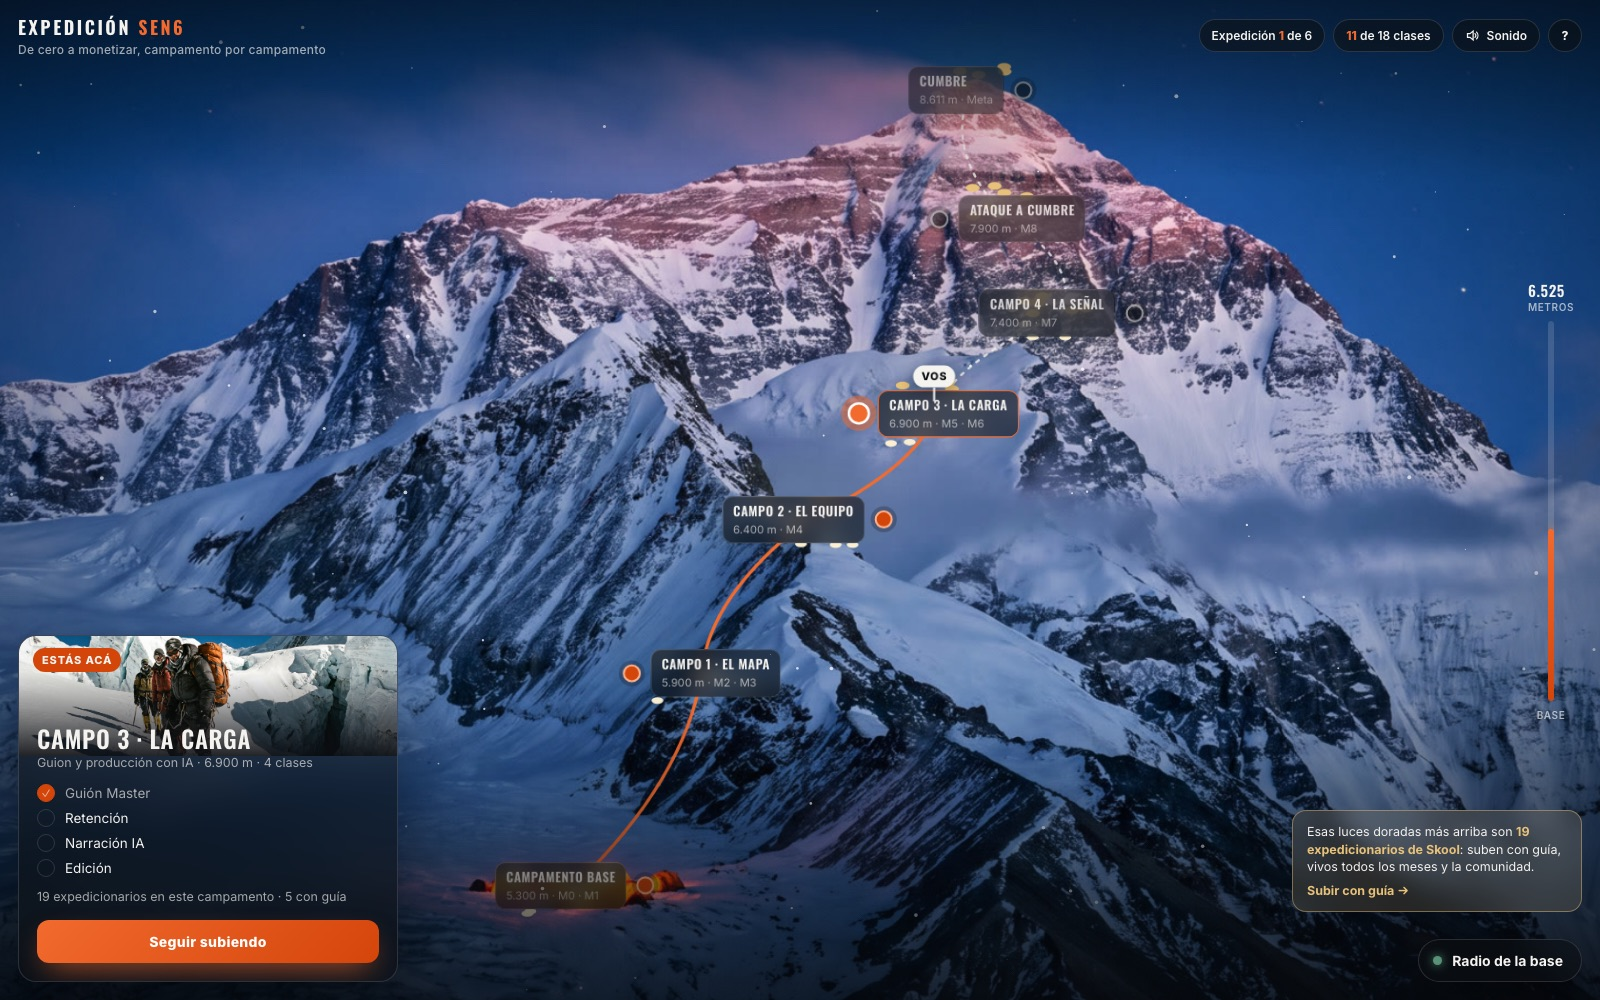
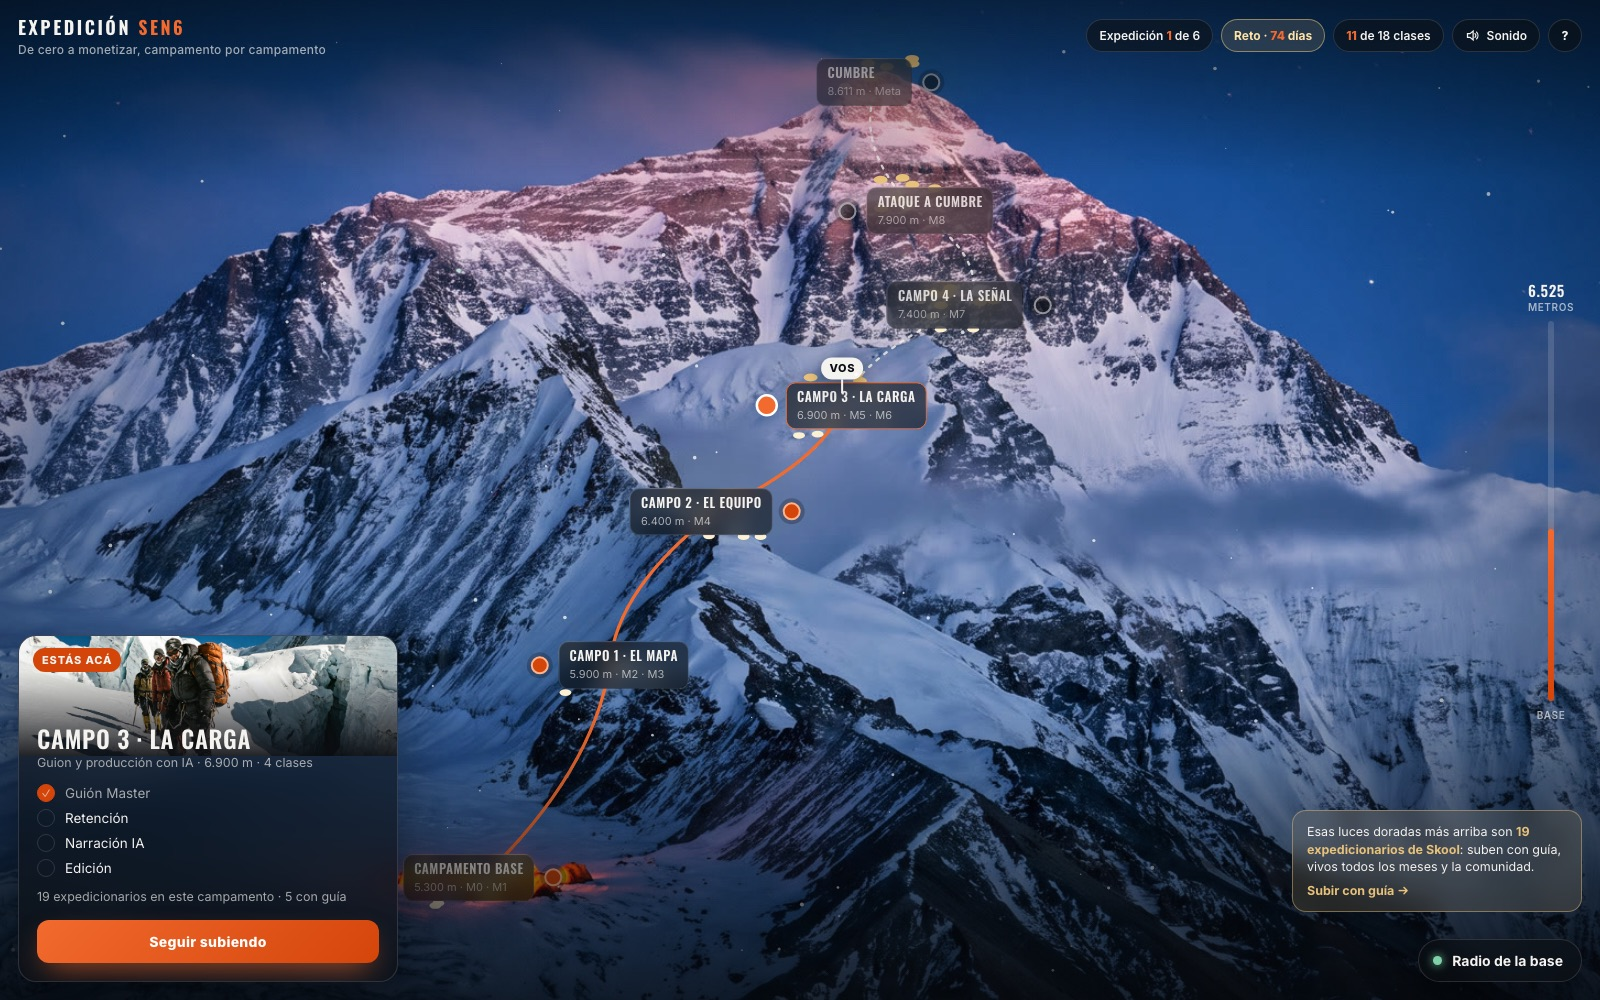
Expedición SEN6: el reto es monetizar en 3 meses (landing, app con contador de días)

diff --git a/expedicion/entrar/index.html b/expedicion/entrar/index.html
@@ -230,6 +230,8 @@ button{font:inherit;color:inherit}
 .estado-cumbre.rechazado{background:rgba(242,106,46,.14)}
 
 /* ---------- recorrido guiado ---------- */
+.chip-reto{border-color:rgba(232,194,122,.55);background:rgba(232,194,122,.14);color:#FFE3A6;cursor:pointer;font-weight:700}
+.chip-reto[hidden]{display:none}
 .chip.ayuda{cursor:pointer;width:34px;padding:8px 0;text-align:center;font-weight:800}
 #tour{position:fixed;inset:0;z-index:80;display:none}
 #tour.activo{display:block}
@@ -266,6 +268,7 @@ button{font:inherit;color:inherit}
   <div class="marca">Expedición <em>SEN6</em><small>De cero a monetizar, campamento por campamento</small></div>
   <div class="chips">
     <div class="chip" id="chipExp" title="Regla del 6M: el año tiene 6 expediciones de 2 meses. Si esta no hace cumbre, volvés al campamento base con lo aprendido.">Expedición <b>1</b> de 6</div>
+    <button class="chip extra chip-reto" id="chipReto" type="button" hidden title="El reto: monetizá en 3 meses y ganás Silver Pro para siempre"></button>
     <div class="chip extra" id="chipProgreso"></div>
     <button class="chip sonido" id="sonido" type="button" aria-pressed="true"></button>
     <button class="chip ayuda" id="ayuda" type="button" aria-label="Ver el recorrido guiado" title="Ver el recorrido guiado">?</button>
@@ -286,7 +289,7 @@ button{font:inherit;color:inherit}
   <div>
     <div class="kick">De cero a monetizar</div>
     <h1>Expedición <em>SEN6</em></h1>
-    <p>Monetizar un canal es hacer cumbre. Seis campamentos, dieciocho clases y una radio en la base que te responde cuando te trabás. Y arriba te espera el premio del reto: si tu canal monetiza, entrás a SEN6 Silver Pro para siempre.</p>
+    <p>Monetizar un canal es hacer cumbre. Seis campamentos, dieciocho clases y una radio en la base que te responde cuando te trabás. Y el reto: si tu canal monetiza en los primeros 3 meses, entrás a SEN6 Silver Pro para siempre.</p>
     <form id="acceso" novalidate>
       <input id="accEmail" type="email" placeholder="El email con el que compraste" autocomplete="username" aria-label="Tu email de compra">
       <div class="acc-paso" id="accPaso" hidden></div>
@@ -378,12 +381,12 @@ function api(metodo, ruta, datos){
     .then(function(r){ return r.json().catch(function(){ return {}; }).then(function(j){ j.status = r.status; return j; }); });
 }
 /* canal registrado y pedido de cumbre (los guarda la oficina; la cumbre la aprueba la revisión con NexLev) */
-var FICHA = { canal:null, cumbre:null };
-if (DEMO) FICHA = { canal:{ url:'https://www.youtube.com/@ejemplo' }, cumbre:null };
+var FICHA = { canal:null, cumbre:null, retoHasta:null };
+if (DEMO) FICHA = { canal:{ url:'https://www.youtube.com/@ejemplo' }, cumbre:null, retoHasta: new Date(Date.now() + 74 * 864e5).toISOString() };
 function tomarFicha(r){
   if (!r || !('canal' in r)) return;
   var antes = FICHA.cumbre && FICHA.cumbre.estado;
-  FICHA = { canal:r.canal, cumbre:r.cumbre };
+  FICHA = { canal:r.canal, cumbre:r.cumbre, retoHasta:r.retoHasta || null };
   if (FICHA.cumbre && FICHA.cumbre.estado === 'aprobado'){
     PROG.campo = CAMPOS.length - 1; ponerLS(CLAVE, JSON.stringify(PROG));
     if (antes !== 'aprobado' && leerLS('expedicion_sen6_cumbre_' + leerLS(CLAVE_EMAIL)) !== '1'){ ponerLS('expedicion_sen6_cumbre_' + leerLS(CLAVE_EMAIL), '1'); setTimeout(festejoCumbre, 900); }
@@ -479,7 +482,7 @@ function panel(){
   var gente = GENTE[sel] + ' expedicionarios en este campamento' + (SILVER[sel] ? ' · ' + SILVER[sel] + ' con guía' : '');
   if (c.meta){
     lis = ''; var ec = FICHA.cumbre && FICHA.cumbre.estado, hecha = ec === 'aprobado' || e === 'actual' && DEMO && PROG.cumbre;
-    gente = hecha ? 'Hiciste cumbre. Tu canal está monetizado y ganaste el premio: SEN6 Silver Pro para siempre. Te llega la invitación a Skool a tu email.' : '<b style="color:var(--oro)">El premio del reto: SEN6 Silver Pro para siempre (valor US$500).</b> Acá llegás cuando tu canal está monetizado: al terminar el Ataque a cumbre mandás el link y lo revisamos con NexLev.';
+    gente = hecha ? (FICHA.cumbre && FICHA.cumbre.conPremio === false ? 'Hiciste cumbre. Tu canal está monetizado.' : 'Hiciste cumbre. Tu canal está monetizado y ganaste el premio: SEN6 Silver Pro para siempre. Te llega la invitación a Skool a tu email.') : '<span style="color:var(--oro)">' + textoReto() + '</span><br>Acá llegás cuando tu canal está monetizado: al terminar el Ataque a cumbre mandás el link y lo revisamos con NexLev.';
     if (!hecha && ec) gente += '<div class="estado-cumbre ' + ec + '">' + textoCumbre(ec) + '</div>';
     var listo = PROG.campo >= CAMPOS.length - 2 && lecsDe(CAMPOS[CAMPOS.length - 2]).every(function(l){ return PROG.vistas[l.id]; });
     var btnM = hecha ? '<button class="cta" type="button">Volver a escuchar la cumbre</button>'
@@ -505,6 +508,8 @@ function hud(){
   var hechas = 0;
   CAMPOS.forEach(function(c, i){ hechas += i < YO.campo ? c.clases.length : i === YO.campo ? hechasDe(c) : 0; });
   document.getElementById('chipProgreso').innerHTML = '<b>' + hechas + '</b> de ' + TOTAL_CLASES + ' clases';
+  var dr = diasReto(), cr = document.getElementById('chipReto'), apro = FICHA.cumbre && FICHA.cumbre.estado === 'aprobado';
+  cr.hidden = dr === null || dr <= 0 || apro; if (!cr.hidden) cr.innerHTML = 'Reto · <b>' + dr + '</b> ' + (dr === 1 ? 'día' : 'días');
   var c = CAMPOS[YO.campo], prev = YO.campo ? CAMPOS[YO.campo - 1].alt : 4800;
   var alt = c.meta ? c.alt : Math.round(prev + (c.alt - prev) * (hechasDe(c) / c.clases.length));
   document.getElementById('altNum').innerHTML = alt.toLocaleString('es-AR') + '<small>METROS</small>';
@@ -725,9 +730,17 @@ function festejoCumbre(){
   fx('impacto', .6); fx('rafaga', .8);
   $('festejo').querySelector('.kick').textContent = '8.611 metros';
   $('festejoTit').textContent = '¡Cumbre!';
-  $('festejoSub').textContent = 'Revisamos tu canal con NexLev: está monetizado. Ganaste el premio del reto: SEN6 Silver Pro para siempre. Te llega la invitación a Skool a tu email.';
+  $('festejoSub').textContent = 'Revisamos tu canal con NexLev: está monetizado.' + (FICHA.cumbre && FICHA.cumbre.conPremio === false ? ' Hiciste cumbre.' : ' Ganaste el premio del reto: SEN6 Silver Pro para siempre. Te llega la invitación a Skool a tu email.');
   $('festejoBtn').textContent = 'Ver la cumbre';
   $('festejo').classList.add('abierto');
+}
+/* días que le quedan del reto (3 meses desde que entró) */
+function diasReto(){ if (!FICHA.retoHasta) return null; return Math.ceil((Date.parse(FICHA.retoHasta) - Date.now()) / 864e5); }
+function textoReto(){
+  var d = diasReto();
+  if (d === null) return 'El reto: si tu canal monetiza en los primeros 3 meses, entrás a SEN6 Silver Pro para siempre (valor US$500).';
+  return d > 0 ? 'El reto: te quedan <b>' + d + (d === 1 ? ' día' : ' días') + '</b> para monetizar y ganar SEN6 Silver Pro para siempre (valor US$500).'
+               : 'El plazo del reto (3 meses) ya pasó, pero la cumbre sigue esperándote.';
 }
 function textoCumbre(ec){
   return ec === 'revision' ? '<b>En revisión.</b> Revisamos tu canal con NexLev cada hora. Cuando esté aprobado, la cumbre se abre sola la próxima vez que entres.'
@@ -748,7 +761,7 @@ $('cartelCerrar').onclick = cerrarCartel;
 function cartelCanal(fin){
   fx('radio', .4);
   abrirCartel({ modo:'canal', fin:fin, pide:true, kick:'Antes de seguir subiendo', tit:'Registrá tu canal',
-    txt:'Pegá el link del canal que acabás de abrir. Es el que vas a llevar hasta la cumbre: al final lo revisamos con NexLev para confirmar que está monetizado y darte el premio (Silver Pro para siempre), así que tiene que ser este mismo.',
+    txt:'Pegá el link del canal que acabás de abrir. Es el que vas a llevar hasta la cumbre: al final lo revisamos con NexLev para confirmar que está monetizado y, si lo lográs en los primeros 3 meses, darte el premio (Silver Pro para siempre). Tiene que ser este mismo.',
     valor: FICHA.canal ? FICHA.canal.url : '', ok:'Registrar mi canal' });
 }
 function cartelCumbre(){
@@ -757,7 +770,7 @@ function cartelCumbre(){
   if (ec === 'revision' || ec === 'distinto'){ abrirCartel({ modo:'info', kick:'Cumbre', tit:'Tu canal está en revisión', txt:textoCumbre(ec), ok:'Entendido', cerrar:'Cerrar' }); return; }
   fx('radio', .4);
   abrirCartel({ modo:'cumbre', pide:true, kick:'Último paso · 8.611 m', tit:'¿Tu canal ya está monetizado?',
-    txt:'Pegá el link de tu canal monetizado. Lo revisamos con NexLev y comprobamos que sea el mismo que registraste al abrirlo: <b>' + esc(FICHA.canal.titulo || FICHA.canal.url.replace('https://www.youtube.com/', '')) + '</b>. Si está todo bien, hacés cumbre y ganás el premio del reto: <b>SEN6 Silver Pro para siempre</b>.',
+    txt:'Pegá el link de tu canal monetizado. Lo revisamos con NexLev y comprobamos que sea el mismo que registraste al abrirlo: <b>' + esc(FICHA.canal.titulo || FICHA.canal.url.replace('https://www.youtube.com/', '')) + '</b>. Si está todo bien, hacés cumbre' + (diasReto() === null || diasReto() > 0 ? ' y ganás el premio del reto: <b>SEN6 Silver Pro para siempre</b>' : '') + '.',
     ok:'Mandar a revisión' });
 }
 $('cartelForm').onsubmit = function(ev){
@@ -843,7 +856,7 @@ var TOURS = {
     { el:'#radio', tit:'Radio de la base', txt:'Si te trabás, prendé la radio y escribí tu duda. Te responde con lo que ya contestaron Max y Lau a cientos de alumnos.' },
     { el:'#guia', tit:'Las luces doradas', txt:'Son los alumnos de la comunidad de Skool: suben con guía, vivos todos los meses y la comunidad. Si querés acompañamiento, desde acá te sumás.' },
     { el:'#sonido', tit:'Sonido', txt:'La expedición tiene música, ambiente y narración. Si estás en un lugar sin auriculares, la apagás acá.' },
-    { el:'#ayuda', tit:'Listo, a subir', txt:'Acordate del reto: si tu canal monetiza, entrás a SEN6 Silver Pro para siempre. Si querés ver este recorrido de nuevo, tocá este botón. Ahora entrá a tu primer campamento.' }
+    { el:'#ayuda', tit:'Listo, a subir', txt:'Acordate del reto: si tu canal monetiza en los primeros 3 meses, entrás a SEN6 Silver Pro para siempre. Si querés ver este recorrido de nuevo, tocá este botón. Ahora entrá a tu primer campamento.' }
   ],
   campamento: [
     { el:'#lecs', tit:'Las clases del campamento', txt:'Miralas en orden. Cada una dura pocos minutos y va directo a lo que tenés que hacer.' },
@@ -899,6 +912,7 @@ $('tourAtras').onclick = function(){ if (tour.i){ tour.i--; pintarPaso(); } };
 $('tourSaltar').onclick = cerrarTour;
 addEventListener('keydown', function(e){ if (!tour) return; if (e.key === 'Escape') cerrarTour(); if (e.key === 'ArrowRight' || e.key === 'Enter') $('tourSig').click(); if (e.key === 'ArrowLeft') $('tourAtras').click(); });
 addEventListener('resize', function(){ if (tour) pintarPaso(); });
+document.getElementById('chipReto').onclick = function(){ sel = CAMPOS.length - 1; dibujar(); panel(); encuadrar(); };
 $('ayuda').onclick = function(){ if (abierto >= 0) arrancarTour('campamento'); else arrancarTour('mapa'); };
 
 addEventListener('resize', encuadrar);

diff --git a/expedicion/index.html b/expedicion/index.html
@@ -366,7 +366,7 @@ footer a{margin:0 10px;color:var(--dim)}
     <div class="eb rv on">Para los que ya nos siguen</div>
     <h1 class="rv on d1" style="margin-top:16px">La ruta completa.<br><em>US$27.</em> Para siempre.</h1>
     <p class="lead rv on d2">Ya conocés SEN6. Si hoy no podés pagar una mensualidad, esto es para vos: las 18 clases fundamentales, en un camino directo y simple para que llegues a tu canal monetizado. Con la radio de la base para cuando te trabás. Pagás una vez y es tuya.</p>
-    <a class="badge-reto rv on d2" href="#reto"><i>EL RETO</i>Si monetizás, ganás <b>Silver Pro para siempre</b> · US$500</a>
+    <a class="badge-reto rv on d2" href="#reto"><i>EL RETO</i>Monetizá en 3 meses y ganás <b>Silver Pro para siempre</b> · US$500</a>
     <div class="acciones rv on d3">
       <a class="cta pagar" href="#precio">Quiero mi expedición <small>US$27</small></a>
       <div class="cta-nota">
@@ -395,16 +395,16 @@ footer a{margin:0 10px;color:var(--dim)}
   <div class="fondo"></div>
   <div class="wrap reto-g">
     <div>
-      <div class="eb rv">El reto · 8.611 m</div>
-      <h2 class="rv d1" style="margin-top:14px">Monetizá tu canal.<br><em>Ganate Silver Pro para siempre.</em></h2>
-      <p class="lead rv d2" style="margin-top:18px">La Expedición es un reto. El que hace cumbre, con su canal monetizado de verdad, entra por invitación a SEN6 Silver Pro en Skool. De por vida.</p>
+      <div class="eb rv">El reto · 3 meses</div>
+      <h2 class="rv d1" style="margin-top:14px">Monetizá en 3 meses.<br><em>Ganate Silver Pro para siempre.</em></h2>
+      <p class="lead rv d2" style="margin-top:18px">La Expedición es un reto. Tenés 3 meses desde que entrás: si en ese plazo hacés cumbre, con tu canal monetizado de verdad, entrás por invitación a SEN6 Silver Pro en Skool. De por vida.</p>
       <div class="pasos">
         <div class="paso rv"><div><b>Registrás tu canal</b><span>Cuando lo abrís, en el Campo 2, queda guardado como el canal de tu expedición.</span></div></div>
-        <div class="paso rv d1"><div><b>Lo llevás hasta la monetización</b><span>Campamento por campamento, con las 18 clases y la radio de la base.</span></div></div>
-        <div class="paso rv d2"><div><b>Lo verificamos con NexLev y te invitamos</b><span>Si es el mismo canal y está monetizado, hiciste cumbre: entrás a Silver Pro para siempre.</span></div></div>
+        <div class="paso rv d1"><div><b>Lo llevás a monetizar en 3 meses</b><span>Campamento por campamento, con las 18 clases y la radio de la base. En la app ves cuántos días te quedan.</span></div></div>
+        <div class="paso rv d2"><div><b>Lo verificamos con NexLev y te invitamos</b><span>Si es el mismo canal y está monetizado dentro del plazo, hiciste cumbre: entrás a Silver Pro para siempre.</span></div></div>
       </div>
     </div>
-    <div class="premio rv d1"><div><div class="k">El premio</div><b>US$500</b><span>Silver Pro</span><small>para siempre, por invitación</small></div></div>
+    <div class="premio rv d1"><div><div class="k">El premio</div><b>US$500</b><span>Silver Pro</span><small>para siempre · si monetizás en 3 meses</small></div></div>
   </div>
 </section>
 
@@ -452,14 +452,14 @@ footer a{margin:0 10px;color:var(--dim)}
         <li>La radio de la base: 383 respuestas de Max y Lau</li>
         <li>Videos de refuerzo de Max para cada etapa</li>
         <li>Tu progreso guardado en cualquier dispositivo</li>
-        <li><b style="color:#FFE3A6">El reto:</b> si tu canal monetiza, entrás a Silver Pro para siempre (valor US$500)</li>
+        <li><b style="color:#FFE3A6">El reto:</b> si tu canal monetiza en 3 meses, entrás a Silver Pro para siempre (valor US$500)</li>
       </ul>
       <a class="cta pagar" id="pagar" href="#" rel="noopener">Quiero mi expedición <small>US$27</small></a>
       <div class="pago-seguro"><svg viewBox="0 0 24 24" fill="none" stroke="currentColor" stroke-width="2" stroke-linecap="round"><rect x="4" y="10" width="16" height="10" rx="2"/><path d="M8 10V7a4 4 0 0 1 8 0v3"/></svg>Pago seguro con <b style="color:var(--cream)">Stripe</b> · tarjeta de crédito o débito</div>
     </div>
     <div class="faq" style="margin-top:44px">
       <details class="rv"><summary>¿Es para siempre de verdad?</summary><p>Sí. Pagás US$27 una sola vez, sin mensualidad, y la expedición queda tuya.</p></details>
-      <details class="rv"><summary>¿Cómo funciona el reto?</summary><p>Registrás tu canal cuando lo abrís (Campo 2) y, cuando monetiza, mandás el link desde la cumbre. Lo revisamos con NexLev: si es el mismo canal y está monetizado, te invitamos a SEN6 Silver Pro en Skool, para siempre.</p></details>
+      <details class="rv"><summary>¿Cómo funciona el reto?</summary><p>Tenés 3 meses desde que entrás. Registrás tu canal cuando lo abrís (Campo 2) y, cuando monetiza, mandás el link desde la cumbre. Lo revisamos con NexLev: si es el mismo canal, está monetizado y lo pediste dentro de los 3 meses, te invitamos a SEN6 Silver Pro en Skool, para siempre. Después del plazo podés hacer cumbre igual, pero sin el premio.</p></details>
       <details class="rv"><summary>¿Cómo entro después de pagar?</summary><p>Apenas pagás te lleva directo a la expedición. Entrás con el mismo email del pago y creás tu contraseña. También te llega un mail con el acceso.</p></details>
     </div>
   </div>
@@ -517,7 +517,7 @@ var PAGO_STRIPE = '';
     ['pdf', 'El PDF de cada clase', 'El resumen con las ideas clave y espacio para tus notas, para tenerlo a mano.'],
     ['radio', 'La radio responde', 'Preguntás en qué te trabaste y te contesta con lo que Max y Lau ya respondieron.'],
     ['cartel', 'Registrás tu canal', 'Cuando lo abrís, queda guardado como el canal que vas a llevar hasta la cumbre.'],
-    ['festejo', 'La cumbre y el premio', 'Si tu canal monetiza, hiciste cumbre: entrás a SEN6 Silver Pro para siempre.']
+    ['festejo', 'La cumbre y el premio', 'Si tu canal monetiza en los primeros 3 meses, hiciste cumbre y entrás a SEN6 Silver Pro para siempre.']
   ];
   var pista = document.getElementById('pista'), puntos = document.getElementById('galPuntos');
   pista.innerHTML = S.map(function(x, i){
